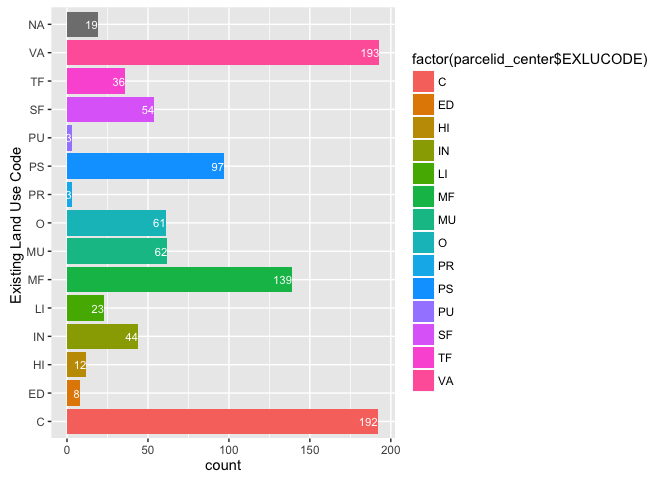
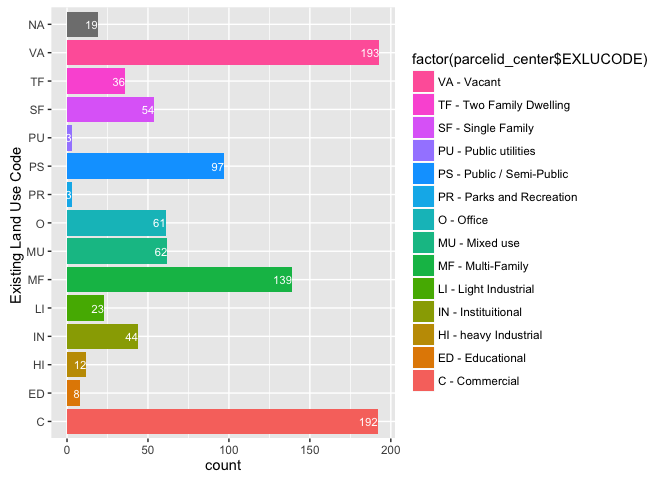
Added Legend titles to the EDGE plot

Changed region(s): [[0.5938, 0.125, 0.875, 0.8125]]

diff --git a/ExploratoryDataAnalysis.md b/ExploratoryDataAnalysis.md
@@ -44,6 +44,9 @@ selected_var_v <- c("PARCELID", "EXLUCODE", "MKTLND", "MKTIMP", "MKT_TOTAL_","AD
 parcelid_center<- stcar_center[selected_var_v]
 parcelid_edge  <- stcar_core[selected_var_v]
 parcelid_core  <- stcar_edge[selected_var_v]
+
+# Existing land use code  description
+exlu_desc <- c("?- Unknown", "C - Commercial", "ED - Educational ", "HI - heavy Industrial", "IN - Instituitional ", "LI - Light Industrial" ,"MF - Multi-Family", "MU - Mixed use", "O - Office", "PR - Parks and Recreation ", "PS - Public / Semi-Public", "PU - Public utilities", "SF - Single Family", "TF - Two Family Dwelling ", "VA - Vacant")
 ```
 
 ### 5a. Exploratory Analysis on Dataset - CORE
@@ -116,21 +119,9 @@ Total number of parcels and the mean Market value of the Land in CENTER
 
 #### Total records in EDGE
 
-``` r
-print(paste("Total number of parcels in EDGE is           ", nrow(parcelid_edge)))
-```
-
     ## [1] "Total number of parcels in EDGE is            1418"
 
-``` r
-print(paste("The mean  Market value of the land in EDGE is", mean(parcelid_edge$MKTLND)))
-```
-
     ## [1] "The mean  Market value of the land in EDGE is 289340.155148096"
-
-``` r
-print(paste("The count of parcels with 0 MKTLND value is  ", length(which(parcelid_edge$MKTLND == 0))))
-```
 
     ## [1] "The count of parcels with 0 MKTLND value is   69"
 
